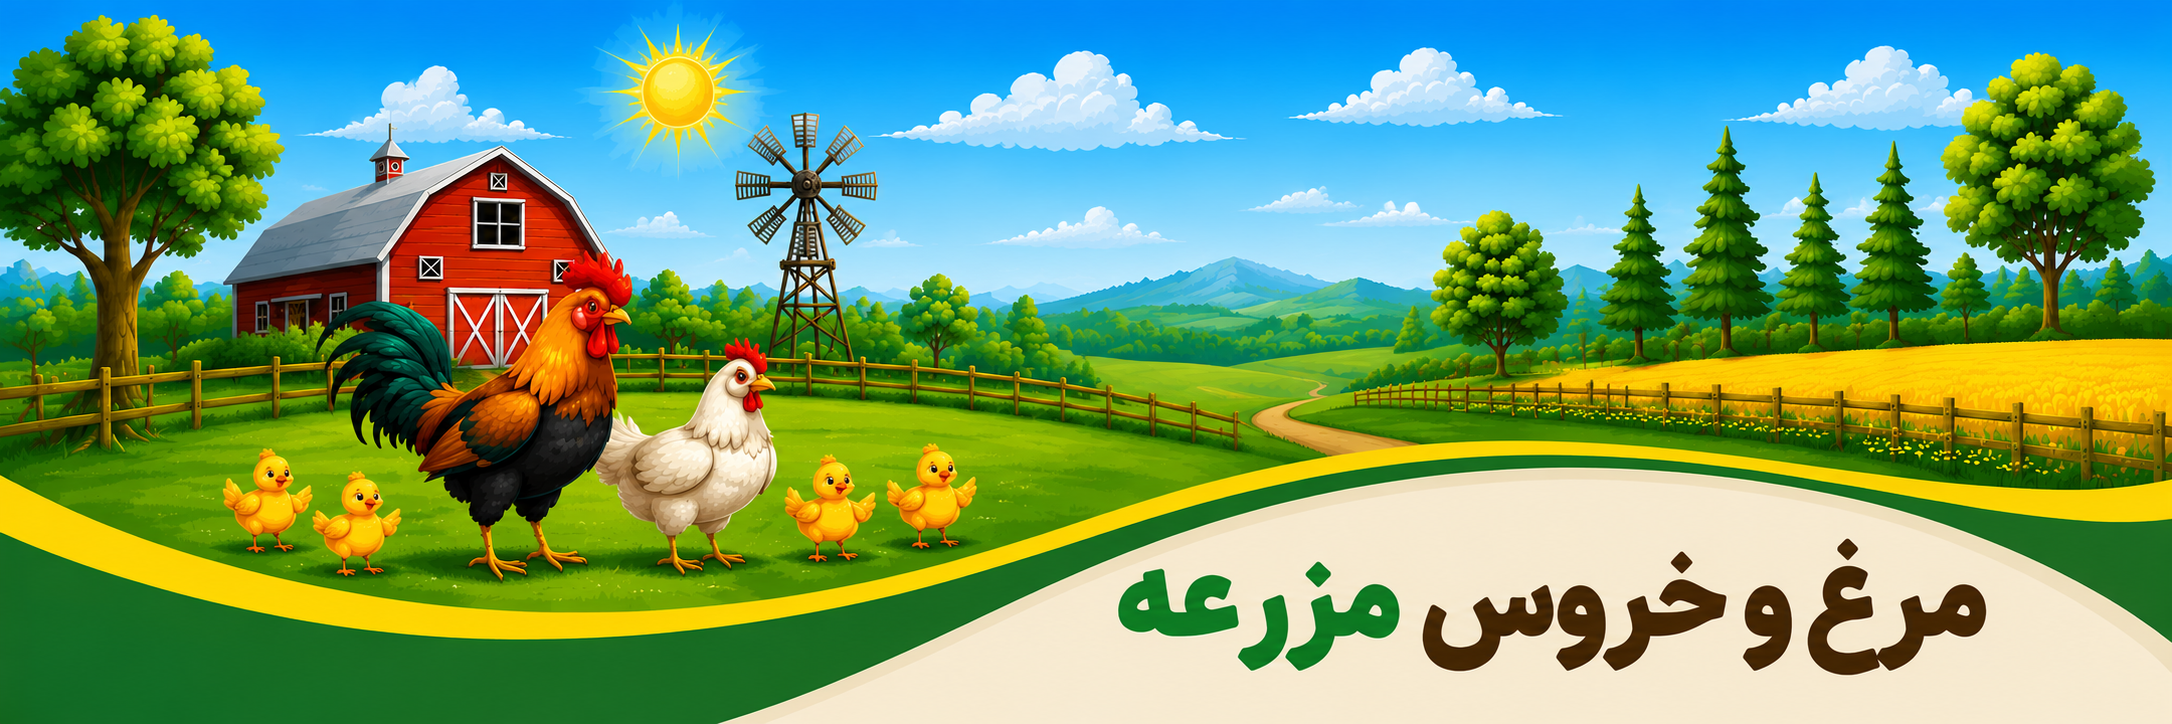
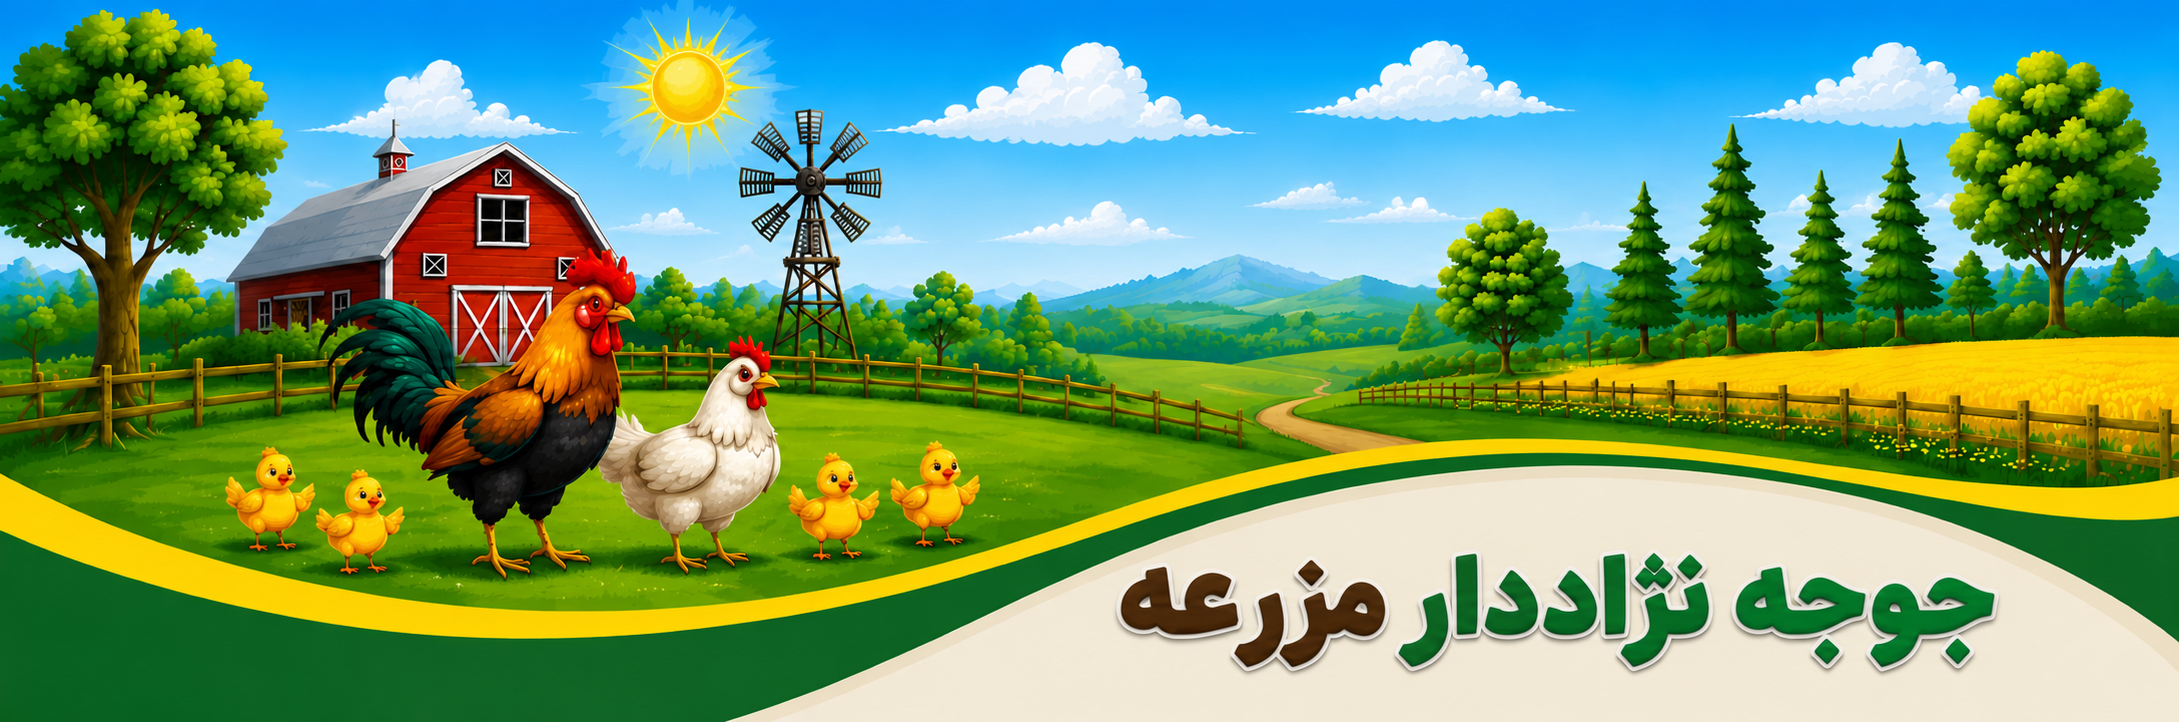
change all

diff --git a/index.html b/index.html
@@ -3,7 +3,7 @@
 <head>
 <meta charset="UTF-8">
 <meta name="viewport" content="width=device-width, initial-scale=1.0">
-<title>جوجه مزرعه</title>
+<title>جوجه نژاددار مزرعه</title>
 <link rel="icon" type="image/png" href="images/favicon.png">
 <link rel="stylesheet" href="https://cdnjs.cloudflare.com/ajax/libs/font-awesome/6.7.2/css/all.min.css">
 <link rel="stylesheet" href="css/style.css">
@@ -14,31 +14,94 @@
 <img src="images/header.png" alt="جوجه نژاددار مزرعه">
 </header>
 
+<!-- بخش عناوین -->
+<section class="titles-section">
+  <h1 class="page-main-title">&lt;&lt; فروش انواع جوجه های زینتی مزرعه &gt;&gt;</h1>
+  <h2 class="category-title">جوجه 1 روزه برهما :</h2>
+</section>
+
+<!-- کارتهای برهما -->
 <section class="cards">
 
 <div class="card">
-<img src="images/chick.png" alt="جوجه برهما بلک">
-<h2>جوجه</h2>
-<p>فروش انواع جوجه یک روزه نژاددار<br>با کیفیت بالا و سلامت کامل</p>
+<img src="images/black.png" alt="جوجه برهما بلک">
+<h2>جوجه برهما بلک</h2>
+<p>فروش انواع جوجه یکروزه بلک<br>با کیفیت بالا و سلامت کامل</p>
 <button>مشاهده محصولات</button>
 </div>
 
 <div class="card">
-<img src="images/morgh.png" alt="جوجه برهما لایت">
-<h2>مرغ</h2>
-<p>فروش انواع مرغهای محلی و نژاددار<br>مناسب برای پرورش، تخمگذاری و زینتی</p>
+<img src="images/layt.png" alt="جوجه برهما لایت">
+<h2>جوجه برهما لایت</h2>
+<p>فروش انواع جوجه یکروزه لایت<br>با کیفیت بالا و سلامت کامل</p>
 <button>مشاهده محصولات</button>
 </div>
 
 <div class="card">
-<img src="images/khroos.png" alt="جوجه برهما گلد">
-<h2>خروس</h2>
-<p>فروش انواع خروسهای نژاددار<br>مناسب پرورش و تکثیر</p>
+<img src="images/gold.png" alt="جوجه برهما گلد">
+<h2>جوجه برهما گلد</h2>
+<p>فروش انواع جوجه یکروزه گلد<br>با کیفیت بالا و سلامت کامل</p>
 <button>مشاهده محصولات</button>
 </div>
 
 </section>
 
+<!-- بخش کارت آمروک -->
+<section class="titles-section">
+  <h2 class="category-title">جوجه 1 روزه آمروک :</h2>
+</section>
+
+<section class="cards">
+
+<div class="card">
+<img src="images/amrook.png" alt="جوجه آمروک">
+<h2>جوجه آمروک</h2>
+<p>فروش انواع جوجه یک روزه آمروک<br>با کیفیت بالا و سلامت کامل</p>
+<button>مشاهده محصولات</button>
+</div>
+
+</section>
+
+<!-- بخش کارت کوشین -->
+<section class="titles-section">
+  <h2 class="category-title">جوجه 1 روزه کوشین :</h2>
+</section>
+
+<section class="cards">
+
+<div class="card">
+<img src="images/koshin.png" alt="جوجه کوشین">
+<h2>جوجه کوشین</h2>
+<p>فروش انواع جوجه یک روزه کوشین<br>با کیفیت بالا و سلامت کامل</p>
+<button>مشاهده محصولات</button>
+</div>
+
+</section>
+
+<!-- بخش کارتهای ریشو و مرندی -->
+<section class="titles-section">
+  <h2 class="category-title">جوجه 1 روزه ریشو و مرندی :</h2>
+</section>
+
+<section class="cards">
+
+<div class="card">
+<img src="images/rishoo.png" alt="جوجه ریشو">
+<h2>جوجه ریشو</h2>
+<p>فروش انواع جوجه یک روزه ریشو<br>با کیفیت بالا و سلامت کامل</p>
+<button>مشاهده محصولات</button>
+</div>
+
+<div class="card">
+<img src="images/marandi.png" alt="جوجه مرندی">
+<h2>جوجه مرندی</h2>
+<p>فروش انواع جوجه یک روزه مرندی<br>با کیفیت بالا و سلامت کامل</p>
+<button>مشاهده محصولات</button>
+</div>
+
+</section>
+
+<!-- بخش درباره ما و تماس -->
 <section class="about-contact">
 
 <div class="about">
@@ -52,18 +115,34 @@
 <div class="contact">
 
 <div class="contact-item">
-<div class="icon"><i class="fa-solid fa-phone"></i></div>
-<span class="ltr">09337123210 _ 09908244992 علیزاده</span>
+
+    <div class="icon">
+        <i class="fa-solid fa-phone"></i>
+    </div>
+
+    <div class="phone-box">
+
+        <div class="phone-row">
+            <span class="phone-number ltr">[phone redacted]</span>
+            <span class="phone-name">علیزاده</span>
+        </div>
+
+        <div class="phone-row">
+            <span class="phone-number ltr">[phone redacted]</span>
+        </div>
+
+    </div>
+
 </div>
 
 <div class="contact-item">
 <div class="icon"><i class="fa-brands fa-telegram"></i></div>
-<span class="ltr">shahin44666</span>
+<span class="ltr">shahin</span>
 </div>
 
 <div class="contact-item">
 <div class="icon"><i class="fa-brands fa-instagram"></i></div>
-<span class="ltr">shahin_alizadeh2020</span>
+<span class="ltr">shahin</span>
 </div>
 
 <div class="contact-item">
@@ -79,7 +158,7 @@
 </section>
 
 <footer>
-<p>با عشق پرورش میدهیم، با افتخار تقدیم شما میکنیم. ❤️🐓</p>
+<p>با عشق پرورش میدهیم، با افتخار تقدیم شما میکنیم. ❤️🐥</p>
 </footer>
 
 </body>

diff --git a/css/style.css b/css/style.css
@@ -1,7 +1,28 @@
 *{margin:0;padding:0;box-sizing:border-box}
 body{background:#F7F1E6;font-family:Tahoma,sans-serif}
-header{width:100%}header img{width:100%;display:block}
-.cards{width:90%;margin:40px auto;display:flex;justify-content:center;align-items:flex-start;gap:35px;flex-wrap:wrap}
+header{width:100%}
+header img{width:100%;display:block}
+
+/* استایل عناوین بالای کارتها */
+.titles-section{
+  width:90%;
+  margin:40px auto 10px;
+}
+.page-main-title{
+  text-align:center;
+  font-size:34px;
+  color:#1d7d22;
+  margin-bottom:30px;
+  font-weight:bold;
+}
+.category-title{
+  text-align:right;
+  font-size:26px;
+  color:#333;
+  font-weight:bold;
+}
+
+.cards{width:90%;margin:20px auto 40px;display:flex;justify-content:center;align-items:flex-start;gap:35px;flex-wrap:wrap}
 .card{width:350px;background:#fff;border-radius:20px;padding:25px;text-align:center;box-shadow:0 5px 20px rgba(0,0,0,.15);transition:.3s}
 .card:hover{transform:translateY(-8px)}
 .card img{width:180px;height:180px;object-fit:contain}
@@ -9,6 +30,7 @@ header{width:100%}header img{width:100%;display:block}
 .card p{color:#555;font-size:20px;line-height:2;min-height:90px}
 .card button{background:#228B22;color:#fff;border:none;padding:14px 35px;border-radius:40px;cursor:pointer;font-size:18px;transition:.3s}
 .card button:hover{background:#196d19}
+
 .about-contact{width:90%;margin:70px auto;display:flex;justify-content:center;align-items:flex-start;gap:70px}
 .about{flex:1}.about h2{color:#1d7d22;font-size:42px;margin-bottom:25px}.about p{font-size:24px;line-height:2.3;color:#333}
 .contact{width:430px;padding-left:35px;margin-left:40px}
@@ -16,7 +38,14 @@ header{width:100%}header img{width:100%;display:block}
 .icon{width:52px;height:52px;background:#fff;border-radius:50%;display:flex;justify-content:center;align-items:center;font-size:24px;color:#000;flex-shrink:0}
 .ltr{direction:ltr;unicode-bidi:bidi-override;font-size:30px;color:#222}
 .address{direction:rtl;font-size:28px;line-height:2;color:#222}
+
+.phone-box{display:flex;flex-direction:column;gap:8px}
+.phone-row{display:flex;align-items:center;gap:15px}
+.phone-name{font-size:26px;font-weight:bold;color:#222}
+.phone-number{direction:ltr;unicode-bidi:bidi-override;font-size:28px}
+
 footer{background:#195f22;color:#fff;text-align:center;padding:22px;margin-top:70px;font-size:22px}
+
 @media(max-width:992px){
 .cards{flex-direction:column;align-items:center}
 .card{width:95%;max-width:420px}
@@ -25,7 +54,10 @@ footer{background:#195f22;color:#fff;text-align:center;padding:22px;margin-top:7
 .about h2{font-size:34px}.about p{font-size:22px}
 .contact{width:100%;max-width:500px;padding-left:0;margin:0 auto}
 }
+
 @media(max-width:768px){
+.page-main-title{font-size:26px;margin-bottom:20px}
+.category-title{font-size:22px;text-align:center}
 .card{width:92%;padding:20px}
 .card img{width:150px;height:150px}
 .card h2{font-size:28px}